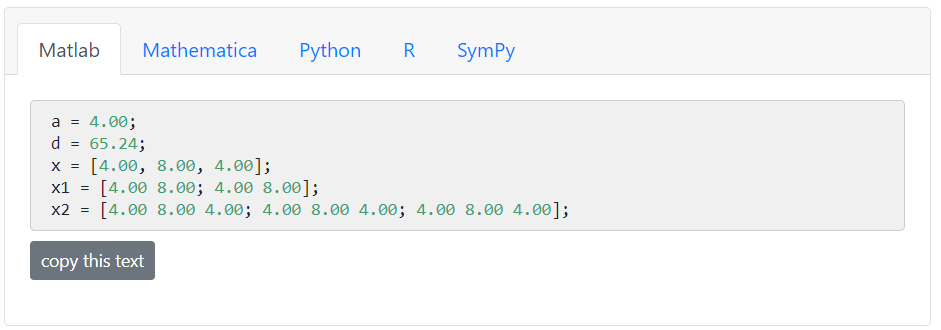
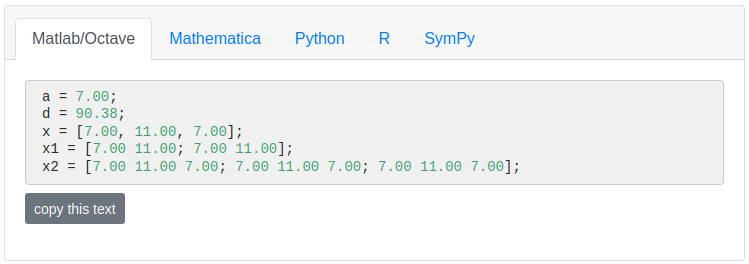
style: `pl-variable-output` style fixes (#7916)
* Label m-file code as Matlab/Octave

Fixes #4248.

* initial changes

* Updated example question

* updated example course

* updated screenshot

* Responded to comments

* typecheck

---------

diff --git a/exampleCourse/questions/element/variableOutput/question.html b/exampleCourse/questions/element/variableOutput/question.html
@@ -1,98 +1,141 @@
 <pl-question-panel>
   <p>
     The questions below were designed to showcase the different features of
-    <a href="https://prairielearn.readthedocs.io/en/latest/elements/#pl-variable-output-element"><code>pl-variable-output</code></a>.
-    The goal of <a href="https://prairielearn.readthedocs.io/en/latest/elements/#pl-variable-output-element"><code>pl-variable-output</code></a>
-    is to allow users to easily copy parameters (scalar values or 2D matrices) for various computational tools.
+    <a href="https://prairielearn.readthedocs.io/en/latest/elements/#pl-variable-output-element"
+      ><code>pl-variable-output</code></a
+    >. The goal of
+    <a href="https://prairielearn.readthedocs.io/en/latest/elements/#pl-variable-output-element"
+      ><code>pl-variable-output</code></a
+    >
+    is to allow users to easily copy parameters (scalar values or 2D matrices) for various
+    computational tools.
   </p>
 </pl-question-panel>
 
 <div class="card my-2">
   <div class="card-body">
     <pl-question-panel>
-      <p>Within this question, you can observe the default behavior of the <a href="https://prairielearn.readthedocs.io/en/latest/elements/#pl-variable-output-element"><code>pl-variable-output</code></a> element.
-        In particular, the default matrix output has Matlab, Mathematica, and Python tabs. The default active tab is Matlab, this can be changed using the attribute <code>default-tab</code>.  This element has the ability to display any 2D matrix or scalar value and they are displayed with <code>2</code> digits after the decimal.</p>
-      </pl-question-panel>
-      <pl-variable-output>
-        <variable params-name="a">a</variable>
-        <variable params-name="d">d</variable>
-        <variable params-name="x">x</variable>
-        <variable params-name="x1">x1</variable>
-        <variable params-name="x2">x2</variable>
-      </pl-variable-output>
-    </div>
+      <p>
+        Within this question, you can observe the default behavior of the
+        <a href="https://prairielearn.readthedocs.io/en/latest/elements/#pl-variable-output-element"
+          ><code>pl-variable-output</code></a
+        >
+        element. In particular, the default matrix output has Matlab, Mathematica, and Python tabs.
+        The default active tab is Matlab, this can be changed using the attribute
+        <code>default-tab</code>. This element has the ability to display any 2D matrix or scalar
+        value and they are displayed with <code>2</code> digits after the decimal.
+      </p>
+    </pl-question-panel>
+    <pl-variable-output>
+      <!-- Comments are allowed here! -->
+      <pl-variable params-name="a">a</pl-variable>
+      <pl-variable params-name="d">d</pl-variable>
+      <pl-variable params-name="x">x</pl-variable>
+      <pl-variable params-name="x1">x1</pl-variable>
+      <pl-variable params-name="x2">x2</pl-variable>
+    </pl-variable-output>
   </div>
+</div>
 
-  <div class="card my-2">
-    <div class="card-body">
-      <pl-question-panel>
-        <p>This example lowers the number of displayed digits to <code>0</code> for the entire element and introduces comments for each variable. This uses the optional element parameter <code>digits</code>.</p>
-      </pl-question-panel>
-      <pl-variable-output digits="0">
-        <variable params-name="x" comment="This is an array">x</variable>
-        <variable params-name="x1" comment="This is a 2D matrix">x1</variable>
-      </pl-variable-output>
-    </div>
+<div class="card my-2">
+  <div class="card-body">
+    <pl-question-panel>
+      <p>
+        This example lowers the number of displayed digits to <code>0</code> for the entire element
+        and introduces comments for each variable. This uses the optional element parameter
+        <code>digits</code>.
+      </p>
+    </pl-question-panel>
+    <pl-variable-output digits="0">
+      <pl-variable params-name="x" comment="This is an array">x</pl-variable>
+      <pl-variable params-name="x1" comment="This is a 2D matrix">x1</pl-variable>
+    </pl-variable-output>
   </div>
+</div>
 
-  <div class="card my-2">
-    <div class="card-body">
-      <pl-question-panel>
-        <p>Under this variant, we opt to change the number of displayed digits to <code>0</code> for the entire element, but explicitly specify <code>8</code> digits for the real number <code>d</code> and <code>2</code> digits for <code>c</code> and <code>xC</code> . This uses the optional variable parameter <code>digits</code>.</p>
-      </pl-question-panel>
-      <pl-variable-output digits="0">
-        <variable params-name="a">a</variable>
-        <variable params-name="b">b</variable>
-        <variable params-name="d" digits="8">d</variable>
-        <variable params-name="c" digits="2">c</variable>
-        <variable params-name="xC" digits="2">xC</variable>
-      </pl-variable-output>
-    </div>
+<div class="card my-2">
+  <div class="card-body">
+    <pl-question-panel>
+      <p>
+        Under this variant, we opt to change the number of displayed digits to <code>0</code> for
+        the entire element, but explicitly specify <code>8</code> digits for the real number
+        <code>d</code> and <code>2</code> digits for <code>c</code> and <code>xC</code> . This uses
+        the optional variable parameter <code>digits</code>.
+      </p>
+    </pl-question-panel>
+    <pl-variable-output digits="0">
+      <pl-variable params-name="a">a</pl-variable>
+      <pl-variable params-name="b">b</pl-variable>
+      <pl-variable params-name="d" digits="8">d</pl-variable>
+      <pl-variable params-name="c" digits="2">c</pl-variable>
+      <pl-variable params-name="xC" digits="2">xC</pl-variable>
+    </pl-variable-output>
   </div>
+</div>
 
-  <div class="card my-2">
-    <div class="card-body">
-      <pl-question-panel>
-        <p>The variables in the Mathematica tab are reformatted if they are reserved in Mathematica (C, D, E, I, K, N, O). These reserved variables are appended with an <code>'m'</code> in the Mathematica tab <strong>only</strong>.</p>
-      </pl-question-panel>
-      <pl-variable-output digits="0">
-        <variable params-name="x" comment="The Mathematica tab adds an 'm' to the variable name">C</variable>
-        <variable params-name="x1">D</variable>
-        <variable params-name="b">E</variable>
-        <variable params-name="a">I</variable>
-        <variable params-name="b">K</variable>
-        <variable params-name="a">N</variable>
-        <variable params-name="b">O</variable>
-      </pl-variable-output>
-    </div>
+<div class="card my-2">
+  <div class="card-body">
+    <pl-question-panel>
+      <p>
+        The variables in the Mathematica tab are reformatted if they are reserved in Mathematica (C,
+        D, E, I, K, N, O). These reserved variables are appended with an <code>'m'</code> in the
+        Mathematica tab <strong>only</strong>.
+      </p>
+    </pl-question-panel>
+    <pl-variable-output digits="0">
+      <pl-variable params-name="x" comment="The Mathematica tab adds an 'm' to the variable name"
+        >C</pl-variable
+      >
+      <pl-variable params-name="x1">D</pl-variable>
+      <pl-variable params-name="b">E</pl-variable>
+      <pl-variable params-name="a">I</pl-variable>
+      <pl-variable params-name="b">K</pl-variable>
+      <pl-variable params-name="a">N</pl-variable>
+      <pl-variable params-name="b">O</pl-variable>
+    </pl-variable-output>
   </div>
+</div>
 
-  <div class="card my-2">
-    <div class="card-body">
-      <pl-question-panel>
-        <p>The default active tab is Matlab, in this example the default active tab is Python. This is done by setting the optional parameter <code>default-tab="python"</code>.</p>
-      </pl-question-panel>
+<div class="card my-2">
+  <div class="card-body">
+    <pl-question-panel>
+      <p>
+        The default active tab is Matlab, in this example the default active tab is Python. This is
+        done by setting the optional parameter <code>default-tab="python"</code>.
+      </p>
+    </pl-question-panel>
 
-      <pl-variable-output digits="0" default-tab="python">
-        <variable params-name="x1">x1</variable>
-      </pl-variable-output>
+    <pl-variable-output digits="0" default-tab="python">
+      <pl-variable params-name="x1">x1</pl-variable>
+    </pl-variable-output>
 
-      <p>All computational languages are displayed by default. These can be turned off using the element attributes <code>show-matlab</code>, <code>show-mathematica</code>, <code>show-python</code>, and <code>show-r</code>. In this example, we remove the the Matlab tab. The default active tab will be the first one in the list, in this case: Mathematica.</p>
+    <p>
+      All computational languages are displayed by default. These can be turned off using the
+      element attributes <code>show-matlab</code>, <code>show-mathematica</code>,
+      <code>show-python</code>, and <code>show-r</code>. In this example, we remove the the Matlab
+      tab. The default active tab will be the first one in the list, in this case: Mathematica.
+    </p>
 
-      <pl-variable-output digits="0" show-matlab="false">
-        <variable params-name="x1">x1</variable>
-      </pl-variable-output>
+    <pl-variable-output digits="0" show-matlab="false">
+      <pl-variable params-name="x1">x1</pl-variable>
+    </pl-variable-output>
 
-      <p>When a tab is not displayed, the default active tab can still be set. In this case, the Mathematica tab is hidden and Python is set as the default active tab.</p>
+    <p>
+      When a tab is not displayed, the default active tab can still be set. In this case, the
+      Mathematica tab is hidden and Python is set as the default active tab.
+    </p>
 
-      <pl-variable-output digits="8" show-mathematica="false" default-tab="python">
-        <variable params-name="d">d</variable>
-      </pl-variable-output>
+    <pl-variable-output digits="8" show-mathematica="false" default-tab="python">
+      <pl-variable params-name="d">d</pl-variable>
+    </pl-variable-output>
 
-      <p>Any tab can be displayed alone. In this case, the Matlab, Mathematica, and R tabs are hidden and the Python tab is displayed alone.</p>
+    <p>
+      Any tab can be displayed alone. In this case, the Matlab, Mathematica, and R tabs are hidden
+      and the Python tab is displayed alone.
+    </p>
 
-      <pl-variable-output digits="0" show-matlab="false" show-mathematica="false" show-r="false">
-        <variable params-name="x1">x1</variable>
-      </pl-variable-output>
-    </div>
+    <pl-variable-output digits="0" show-matlab="false" show-mathematica="false" show-r="false">
+      <pl-variable params-name="x1">x1</pl-variable>
+    </pl-variable-output>
   </div>
+</div>

diff --git a/exampleCourse/questions/demo/annotated/mathOuterProduct/question.html b/exampleCourse/questions/demo/annotated/mathOuterProduct/question.html
@@ -3,10 +3,10 @@
 compute the outer product ${\bf w} = \textrm{a} {\bf u} \otimes \textrm{b} {\bf v}$</p>
 
 <pl-variable-output show-mathematica=false show-r=false>
-  <variable params-name="u" digits={{params.d}}>u</variable>
-  <variable params-name="v" digits={{params.d}}>v</variable>
-  <variable params-name="a" digits=0>a</variable>
-  <variable params-name="b" digits=0>b</variable>
+  <pl-variable params-name="u" digits={{params.d}}>u</pl-variable>
+  <pl-variable params-name="v" digits={{params.d}}>v</pl-variable>
+  <pl-variable params-name="a" digits=0>a</pl-variable>
+  <pl-variable params-name="b" digits=0>b</pl-variable>
 </pl-variable-output>
 
 </pl-question-panel>

diff --git a/exampleCourse/questions/demo/annotated/engCircuit/question.html b/exampleCourse/questions/demo/annotated/engCircuit/question.html
@@ -7,10 +7,10 @@
 <p> The input variables are provided below: </p>
 <p>
 <pl-variable-output digits="0" show-matlab="false" show-mathematica="false" show-r="false">
-    <variable params-name="R1">R1</variable>
-    <variable params-name="R2">R2</variable>
-    <variable params-name="R3">R3</variable>
-    <variable params-name="Vt">VT</variable>
+    <pl-variable params-name="R1">R1</pl-variable>
+    <pl-variable params-name="R2">R2</pl-variable>
+    <pl-variable params-name="R3">R3</pl-variable>
+    <pl-variable params-name="Vt">VT</pl-variable>
 </pl-variable-output>
 </p>
 

diff --git a/exampleCourse/questions/workshop/Lesson1_example3_v3/question.html b/exampleCourse/questions/workshop/Lesson1_example3_v3/question.html
@@ -7,10 +7,10 @@
 <p> The input variables are provided below: </p>
 <p>
 <pl-variable-output digits="0" show-matlab="false" show-mathematica="false" show-r="false">
-    <variable params-name="R1">R1</variable>
-    <variable params-name="R2">R2</variable>
-    <variable params-name="R3">R3</variable>
-    <variable params-name="Vt">VT</variable>
+    <pl-variable params-name="R1">R1</pl-variable>
+    <pl-variable params-name="R2">R2</pl-variable>
+    <pl-variable params-name="R3">R3</pl-variable>
+    <pl-variable params-name="Vt">VT</pl-variable>
 </pl-variable-output>
 </p>
 

diff --git a/exampleCourse/questions/element/matrixComponentInput/question.html b/exampleCourse/questions/element/matrixComponentInput/question.html
@@ -3,7 +3,7 @@
         Suppose ${\bf x}$ is the following array:
     </p>
     <pl-variable-output digits="0">
-        <variable params_name="x">x</variable>
+        <pl-variable params_name="x">x</pl-variable>
     </pl-variable-output>
 </pl-question-panel>
 
@@ -30,7 +30,7 @@
         Suppose ${\bf A}$ is the following array:
     </p>
     <pl-variable-output digits="{{params.sf}}">
-        <variable params_name="in">A</variable>
+        <pl-variable params_name="in">A</pl-variable>
     </pl-variable-output>
 </pl-question-panel>
 

diff --git a/exampleCourse/questions/workshop/Lesson3_example1_v2/question.html b/exampleCourse/questions/workshop/Lesson3_example1_v2/question.html
@@ -4,8 +4,8 @@ Given a matrix $A$ and a vector $b$, compute the matrix-vector multiplication $y
 </p>
 <p>
   <pl-variable-output show-matlab="false" show-mathematica="false" show-r="false">
-      <variable params-name="A">A</variable>
-      <variable params-name="b">b</variable>
+      <pl-variable params-name="A">A</pl-variable>
+      <pl-variable params-name="b">b</pl-variable>
   </pl-variable-output>
 </p>
 </pl-question-panel>

diff --git a/exampleCourse/questions/workshop/Lesson3_example1_v3/question.html b/exampleCourse/questions/workshop/Lesson3_example1_v3/question.html
@@ -4,8 +4,8 @@ Given a matrix $A$ and a vector $b$, compute the matrix-vector multiplication $y
 </p>
 <p>
   <pl-variable-output show-matlab="false" show-mathematica="false" show-r="false">
-      <variable params-name="A">A</variable>
-      <variable params-name="b">b</variable>
+      <pl-variable params-name="A">A</pl-variable>
+      <pl-variable params-name="b">b</pl-variable>
   </pl-variable-output>
 </p>
 </pl-question-panel>

diff --git a/exampleCourse/questions/demo/annotated/mathMatrixMult/question.html b/exampleCourse/questions/demo/annotated/mathMatrixMult/question.html
@@ -3,8 +3,8 @@
 Two matrices $A$ and $B$ are given as follows:
 </p>
 <pl-variable-output show-mathematica=false show-r=false digits="1">
-    <variable params-name="A">A</variable>
-    <variable params-name="B">B</variable>
+    <pl-variable params-name="A">A</pl-variable>
+    <pl-variable params-name="B">B</pl-variable>
 </pl-variable-output>
 <p>
 Find the product of these two matrices:

diff --git a/exampleCourse/questions/demo/matrixAlgebra/question.html b/exampleCourse/questions/demo/matrixAlgebra/question.html
@@ -3,8 +3,8 @@
 Two matrices $A$ and $B$ are given as follows:
 </p>
 <pl-variable-output>
-    <variable params-name="A">A</variable>
-    <variable params-name="B">B</variable>
+    <pl-variable params-name="A">A</pl-variable>
+    <pl-variable params-name="B">B</pl-variable>
 </pl-variable-output>
 <p>
 Find the product of these two matrices:

diff --git a/exampleCourse/questions/demo/matrixComplexAlgebra/question.html b/exampleCourse/questions/demo/matrixComplexAlgebra/question.html
@@ -3,8 +3,8 @@
 Two matrices $A$ and $B$ are given as follows:
 </p>
 <pl-variable-output>
-    <variable params-name="A">A</variable>
-    <variable params-name="B">B</variable>
+    <pl-variable params-name="A">A</pl-variable>
+    <pl-variable params-name="B">B</pl-variable>
 </pl-variable-output>
 <p>
 Find the product of these two matrices:

diff --git a/exampleCourse/questions/element/codeDocumentation/question.html b/exampleCourse/questions/element/codeDocumentation/question.html
@@ -319,8 +319,8 @@ def square(x):
         </pl-question-panel>
 
 <pl-variable-output digits="3">
-    <variable params-name="matrixC">C</variable>
-    <variable params-name="matrixD">D</variable>
+    <pl-variable params-name="matrixC">C</pl-variable>
+    <pl-variable params-name="matrixD">D</pl-variable>
 </pl-variable-output>
 
     </div>

diff --git a/exampleCourse/questions/demo/annotated/mathMatrixMultT/question.html b/exampleCourse/questions/demo/annotated/mathMatrixMultT/question.html
@@ -10,7 +10,7 @@ ${\bf A} = <pl-matrix-latex params-name="A" digits={{params.nDigits}}></pl-matri
 <p>In code this is:</p>
 
 <pl-variable-output >
-    <variable params-name="A" digits={{params.nDigits}}>A</variable>
+    <pl-variable params-name="A" digits={{params.nDigits}}>A</pl-variable>
 </pl-variable-output>
 
 <p>
